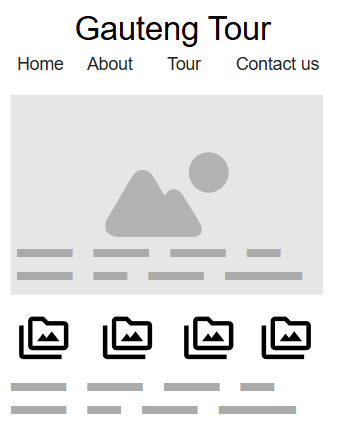
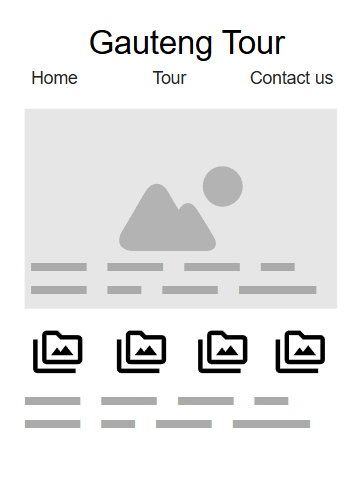
audit tool typo

diff --git a/project/index.html b/project/index.html
@@ -1,0 +1,27 @@
+<!DOCTYPE html>
+<html lang="en">
+<head>
+    <meta charset="UTF-8">
+    <meta name="viewport" content="width=device-width, initial-scale=1.0">
+    <title>Gauteng Tour</title>
+</head>
+<body>
+    <header>
+         <header>
+        <nav>
+            <h1>Gauteng Tour Guard</h1>
+            <a id="menu"></a>
+            <ul class="navigation">
+		        <li><a href="#home">Home</a></li>
+		        <li><a href="#new">Tour</a></li>
+		        <li><a href="#large">Contact Us</a></li>
+	        </ul>
+        </nav>
+    </header>
+    </header>
+    <footer class="footer">
+        <p>© <span id="currentyear"></span> Mpho Rakgope, South Africa</p>
+        <p><span id="lastupdated"></span></p>
+    </footer>
+</body>
+</html>
